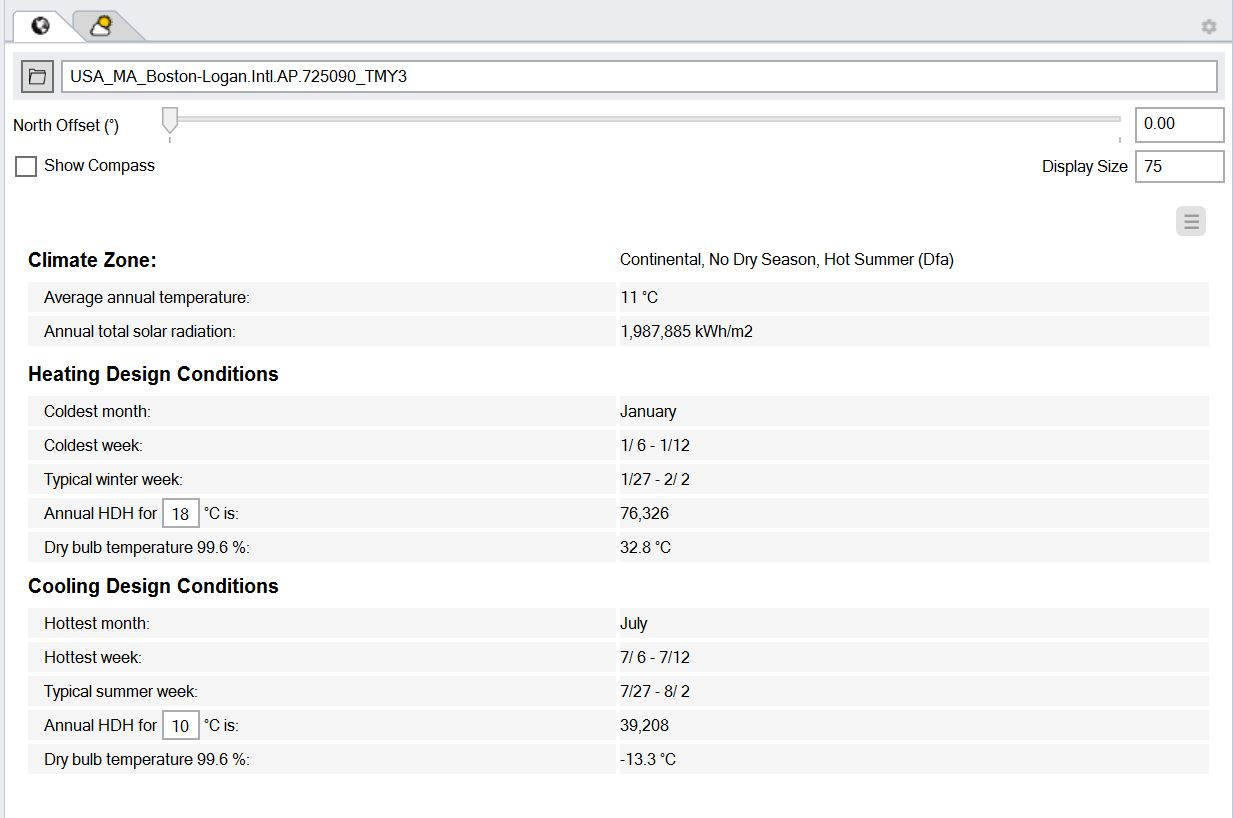
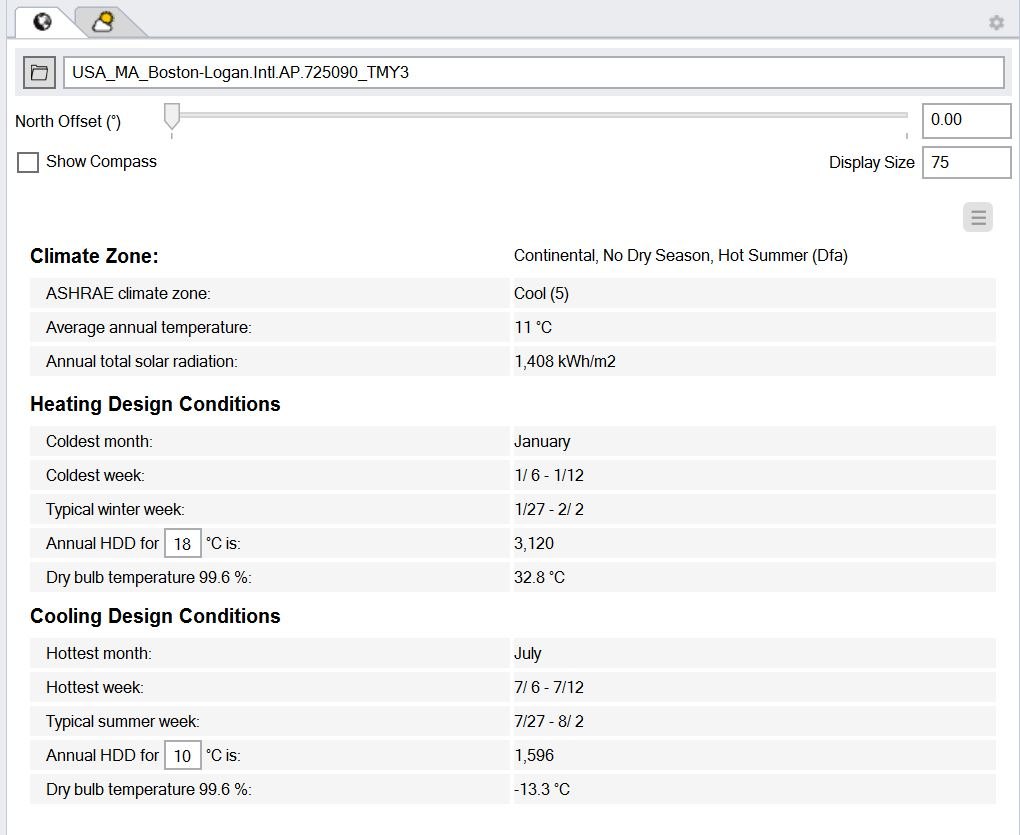
update climate summary documentation

diff --git a/docs/Location.rst b/docs/Location.rst
@@ -24,10 +24,13 @@ Climate Summary
 ----------------------------------------------------
 A summary of the climate selected is displayed on this page. Note that the accuracy of this summary entirely depends on the climate file selected. 
 
-- **Climate Zone** is based on the **koppen climate classification**. 
+- **Koppen Climate Zone** is based on the **Köppen climate classification** which divides the climate into five main groups, then into various subgroups based on temperature and seasonal patterns. 
+- **ASHRAE climate zone** is based on **ASHRAE standard 169** which classifies climate data into nine climate zones, labeled 0 Extreme hot to 8 Extreme cold, based on annual heating and cooling degree days.
+- **Average annual temperature** is the annual average dry bulb temperature. 
+- **Annual total solar radiation** is the sum of global horizontal irradiance.  
 - **Coldest/Hottest Month** are calculated through the average dry bulb tempearture of each month. 
 - **Coldest/Hottest/Typical Week** are taken from the headers of the climate file. 
-- **Annual HDH/CDH** are **Heating Degree Hour** and **Cooling Degree Hour** which are calculated as the sum of the negative or positive difference between the target tempearture and the dry bulb temperature. 
+- **Annual HDD/CDD** are **Heating Degree Days** and **Cooling Degree Days** which are calculated as the sum of the negative or positive difference between the target tempearture and the daily average dry bulb temperature. 
 
 Click on the Menu button to **Copy Climate Summary Text to ClipBoard** or switch between **Unit Systems**
 
